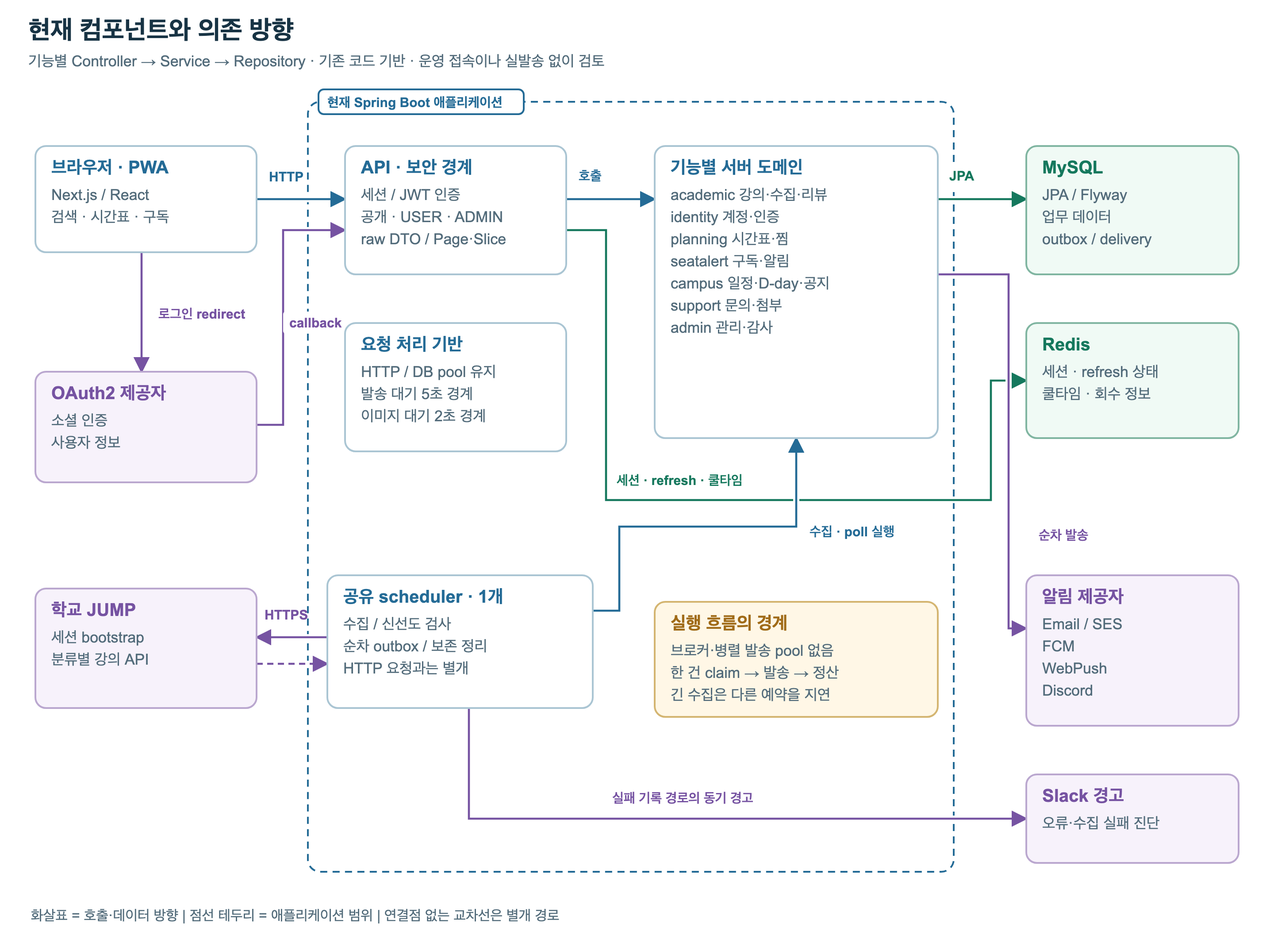
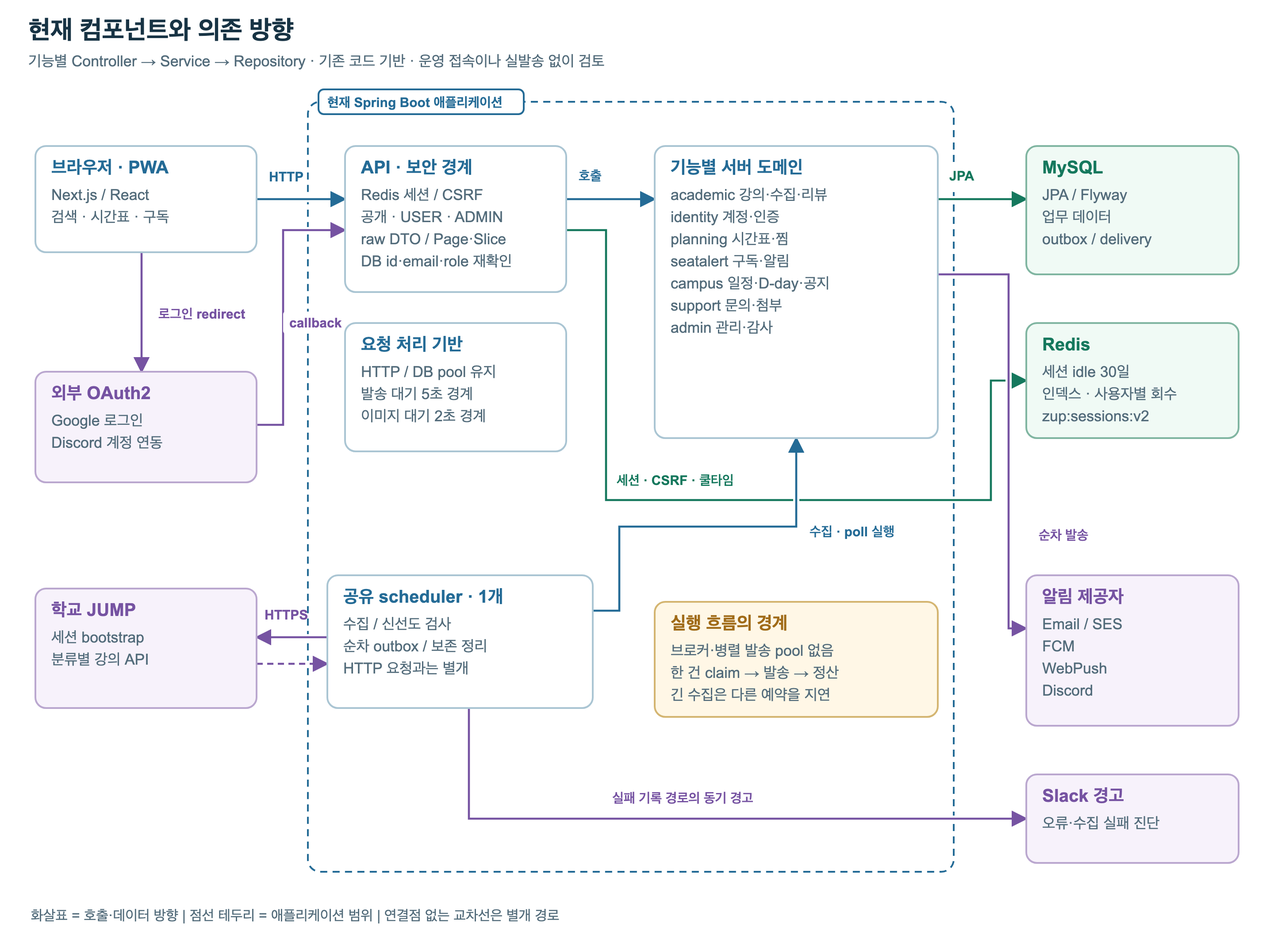
docs(auth): 현재 구조도에 Redis 세션 전환을 반영
로그인·CSRF·현재 계정 검사와 기기별 로그아웃·탈퇴 회수 흐름을 최종 코드 기준으로 표시한다.
30일 idle 정책과 일회 재로그인, SESSION 쿠키 설정 및 검증 결과를 기록한다.
외부 자원 없이 1440·390·320px와 탭·소스 링크를 확인했다.

diff --git a/docs/current-architecture.html b/docs/current-architecture.html
@@ -21,7 +21,7 @@
 <div class="eyebrow">ZUP ZUP · CURRENT CODE MAP</div>
 <h1>줍줍의 현재 구조</h1>
 <p class="lead">사용자 요청은 기존 서비스로, 여석 알림은 DB에 남긴 작업을 한 건씩 처리하는 흐름으로 이어집니다. 이 문서는 현재 단순화 브랜치의 실행 경로와 경계를 설명합니다.</p>
-<div class="meta"><span class="chip strong">codex/simplify-existing-20261026</span><span class="chip">코드 기준 <code id="code-revision">0bb2bf766</code></span><span class="chip">2026-10-26</span><span class="chip">독립 HTML · 외부 요청 없음</span></div>
+<div class="meta"><span class="chip strong">codex/simplify-existing-20261026</span><span class="chip">코드 기준 <code id="code-revision" title="a6ab4b5abf9d9a773c443389f9173d20b3f7d9ac">a6ab4b5ab</code></span><span class="chip">2026-10-26</span><span class="chip">독립 HTML · 외부 요청 없음</span></div>
 <div class="metrics" aria-label="설정 기본값 요약"><div class="metric"><b>1건씩</b><span>outbox 선점 → 발송 → 정산</span></div><div class="metric"><b>1개</b><span>공유 scheduler의 실행 스레드</span></div><div class="metric"><b>5초 / 2초</b><span>제공자 / 이미지 결과 대기 제한</span></div><div class="metric"><b>DB + token</b><span>unique 제약과 claim fencing</span></div></div>
 </header>
 <nav class="tabs" role="tablist" aria-label="구조도 보기">
@@ -76,7 +76,7 @@
 <path d="M 640 260 H 685 V 565 H 1120 V 430 H 1160" fill="none" stroke="#fff" stroke-width="7"/>
 <path d="M 640 260 H 685 V 565 H 1120 V 430 H 1160" fill="none" stroke="#15785d" stroke-width="2.3" marker-end="url(#component-diagram-arrow-15785d)"/>
 <rect x="690" y="530" width="193" height="25" rx="3" fill="#fff" stroke="none" stroke-width="2"/>
-<text x="697" y="548" font-size="15" fill="#15785d" font-weight="600" text-anchor="start">세션 · refresh · 쿨타임</text>
+<text x="697" y="548" font-size="15" fill="#15785d" font-weight="600" text-anchor="start">세션 · CSRF · 쿨타임</text>
 <path d="M 160 285 V 420" fill="none" stroke="#fff" stroke-width="7"/>
 <path d="M 160 285 V 420" fill="none" stroke="#7653a2" stroke-width="2.3" marker-end="url(#component-diagram-arrow-7653a2)"/>
 <rect x="172" y="342" width="131" height="25" rx="3" fill="#fff" stroke="none" stroke-width="2"/>
@@ -107,11 +107,12 @@
 <text x="58" y="196" font-size="20" fill="#246b96" font-weight="700" text-anchor="start">브라우저 · PWA</text>
 <text x="58" y="226" font-size="17" fill="#536c7b" font-weight="400" text-anchor="start">Next.js / React</text>
 <text x="58" y="251" font-size="17" fill="#536c7b" font-weight="400" text-anchor="start">검색 · 시간표 · 구독</text>
-<rect x="390" y="165" width="250" height="145" rx="12" fill="#fff" stroke="#aac5d3" stroke-width="2"/>
+<rect x="390" y="165" width="250" height="165" rx="12" fill="#fff" stroke="#aac5d3" stroke-width="2"/>
 <text x="408" y="196" font-size="20" fill="#246b96" font-weight="700" text-anchor="start">API · 보안 경계</text>
-<text x="408" y="226" font-size="17" fill="#536c7b" font-weight="400" text-anchor="start">세션 / JWT 인증</text>
+<text x="408" y="226" font-size="17" fill="#536c7b" font-weight="400" text-anchor="start">Redis 세션 / CSRF</text>
 <text x="408" y="251" font-size="17" fill="#536c7b" font-weight="400" text-anchor="start">공개 · USER · ADMIN</text>
 <text x="408" y="276" font-size="17" fill="#536c7b" font-weight="400" text-anchor="start">raw DTO / Page·Slice</text>
+<text x="408" y="301" font-size="17" fill="#536c7b" font-weight="400" text-anchor="start">DB id·email·role 재확인</text>
 <rect x="740" y="165" width="320" height="330" rx="12" fill="#fff" stroke="#aac5d3" stroke-width="2"/>
 <text x="758" y="196" font-size="20" fill="#246b96" font-weight="700" text-anchor="start">기능별 서버 도메인</text>
 <text x="758" y="226" font-size="17" fill="#536c7b" font-weight="400" text-anchor="start">academic  강의·수집·리뷰</text>
@@ -128,12 +129,13 @@
 <text x="1178" y="276" font-size="17" fill="#536c7b" font-weight="400" text-anchor="start">outbox / delivery</text>
 <rect x="1160" y="365" width="240" height="130" rx="12" fill="#f0faf5" stroke="#80b5a1" stroke-width="2"/>
 <text x="1178" y="396" font-size="20" fill="#15785d" font-weight="700" text-anchor="start">Redis</text>
-<text x="1178" y="426" font-size="17" fill="#536c7b" font-weight="400" text-anchor="start">세션 · refresh 상태</text>
-<text x="1178" y="451" font-size="17" fill="#536c7b" font-weight="400" text-anchor="start">쿨타임 · 회수 정보</text>
+<text x="1178" y="426" font-size="17" fill="#536c7b" font-weight="400" text-anchor="start">세션 idle 30일</text>
+<text x="1178" y="451" font-size="17" fill="#536c7b" font-weight="400" text-anchor="start">인덱스 · 사용자별 회수</text>
+<text x="1178" y="476" font-size="17" fill="#536c7b" font-weight="400" text-anchor="start">zup:sessions:v2</text>
 <rect x="40" y="420" width="250" height="125" rx="12" fill="#f7f2fb" stroke="#baa7cf" stroke-width="2"/>
-<text x="58" y="451" font-size="20" fill="#7653a2" font-weight="700" text-anchor="start">OAuth2 제공자</text>
-<text x="58" y="481" font-size="17" fill="#536c7b" font-weight="400" text-anchor="start">소셜 인증</text>
-<text x="58" y="506" font-size="17" fill="#536c7b" font-weight="400" text-anchor="start">사용자 정보</text>
+<text x="58" y="451" font-size="20" fill="#7653a2" font-weight="700" text-anchor="start">외부 OAuth2</text>
+<text x="58" y="481" font-size="17" fill="#536c7b" font-weight="400" text-anchor="start">Google 로그인</text>
+<text x="58" y="506" font-size="17" fill="#536c7b" font-weight="400" text-anchor="start">Discord 계정 연동</text>
 <rect x="390" y="365" width="250" height="145" rx="12" fill="#fff" stroke="#aac5d3" stroke-width="2"/>
 <text x="408" y="396" font-size="20" fill="#246b96" font-weight="700" text-anchor="start">요청 처리 기반</text>
 <text x="408" y="426" font-size="17" fill="#536c7b" font-weight="400" text-anchor="start">HTTP / DB pool 유지</text>
@@ -166,14 +168,14 @@
 </svg></div><p class="diagram-help">좁은 화면에서는 도식 안을 좌우로 스크롤하세요. 도식에 초점을 둔 뒤 ← / → 키도 사용할 수 있습니다.</p></figure><!-- /COMPONENT FIGURE -->
 <div class="legend"><span><i class="dot io-dot"></i>요청·처리</span><span><i class="dot tx-dot"></i>DB 트랜잭션</span><span><i class="dot external-dot"></i>외부 I/O</span><span><i class="dot risk-dot"></i>제약·위험</span></div>
 <div class="system" aria-label="웹에서 서버와 저장소 및 외부 시스템으로 이어지는 구조도">
-<div class="lane"><div class="lane-title">01 · 사용자와 웹</div><article class="card"><span class="tag">Next.js · React</span><h3>브라우저 / PWA</h3><p>검색·시간표·구독·대시보드·설정·관리자 화면</p><div class="pill-line"><span>TanStack Query</span><span>Axios</span><span>쿠키 인증</span><span>알림 service worker</span></div><p class="small">HTTP API 요청과 응답으로 서버 기능을 사용합니다. 이미지 등 첨부도 인증된 API로 요청합니다.</p><div class="ref"><a data-src="web:shared/api/client.ts">HTTP·401 재발급</a><a data-src="web:app/providers.tsx">웹 providers</a></div></article><article class="card"><span class="tag external">OAuth2</span><h3>소셜 로그인 제공자</h3><p>제공자 인증 → 서버 callback → 서비스 계정 조회/생성</p><div class="ref"><a data-src="main:identity/auth/client/CustomOAuth2UserService.java">OAuth 사용자 처리</a></div></article></div>
+<div class="lane"><div class="lane-title">01 · 사용자와 웹</div><article class="card"><span class="tag">Next.js · React</span><h3>브라우저 / PWA</h3><p>검색·시간표·구독·대시보드·설정·관리자 화면</p><div class="pill-line"><span>TanStack Query</span><span>Axios</span><span>SESSION 쿠키</span><span>알림 service worker</span></div><p class="small">HTTP API 요청과 응답으로 서버 기능을 사용합니다. 이미지 등 첨부도 인증된 API로 요청합니다.</p><div class="ref"><a data-src="web:shared/api/client.ts">HTTP·CSRF 처리</a><a data-src="web:app/providers.tsx">웹 providers</a></div></article><article class="card"><span class="tag external">OAuth2</span><h3>Google 로그인 · Discord 연동</h3><p>Google 인증 → 서버 callback → 서비스 계정 조회/생성. Discord 외부 OAuth 계정 연동도 유지합니다.</p><div class="ref"><a data-src="main:identity/auth/client/CustomOAuth2UserService.java">OAuth 사용자 처리</a></div></article></div>
 <div class="arrow" aria-hidden="true">⇄</div>
-<div class="lane server"><div class="server-head">02 · Spring Boot 3.5.9 / Java 21</div><article class="card"><span class="tag">보안 경계</span><h3>Spring Security · 인증 필터</h3><p>공개 API / 인증 사용자 / ADMIN 경로를 구분합니다. 세션 인증과 Bearer JWT를 검증하고 서비스에서 소유권을 검사합니다.</p><div class="ref"><a data-src="main:common/config/SecurityConfig.java">권한 설정</a><a data-src="main:common/security/jwt/JwtAuthenticationFilter.java">인증 필터</a></div></article><article class="card"><span class="tag tx">업무 처리</span><h3>기능별 Controller → Service → Repository</h3><div class="pill-line"><span>academic</span><span>identity</span><span>planning</span><span>seatalert</span><span>campus</span><span>support</span><span>admin</span></div><p class="small">DTO는 request(입력)·response(API 출력)·result(내부 결과)와 command·criteria·external·provider·diagnostic으로 역할을 구분합니다. 타입을 복제하는 변환 계층은 추가하지 않았습니다.</p></article><article class="card"><span class="tag">예약 작업</span><h3>공유 scheduler 1개</h3><p>수집·신선도 검사·outbox poll·보존 기간 정리 작업이 순차 실행됩니다. outbox는 별도 발송 pool 없이 한 건씩 처리합니다.</p><div class="ref"><a data-src="main:common/config/SchedulingConfig.java">scheduler 설정</a><a data-src="main:seatalert/notification/scheduler/SeatNotificationOutboxWorker.java">순차 worker</a></div></article></div>
+<div class="lane server"><div class="server-head">02 · Spring Boot 3.5.9 / Java 21</div><article class="card"><span class="tag">보안 경계</span><h3>Spring Security · 인증 필터</h3><p>공개 API / 인증 사용자 / ADMIN 경로를 구분합니다. Redis 세션 인증 후 DB에서 현재 id·email·미탈퇴·role을 재확인합니다. 변경 요청에는 CSRF 검증을 적용하며 서비스의 소유권 검사도 유지합니다.</p><div class="ref"><a data-src="main:common/config/SecurityConfig.java">권한 설정</a><a data-src="main:common/security/session/SessionAuthenticationFilter.java">인증 필터</a></div></article><article class="card"><span class="tag tx">업무 처리</span><h3>기능별 Controller → Service → Repository</h3><div class="pill-line"><span>academic</span><span>identity</span><span>planning</span><span>seatalert</span><span>campus</span><span>support</span><span>admin</span></div><p class="small">DTO는 request(입력)·response(API 출력)·result(내부 결과)와 command·criteria·external·provider·diagnostic으로 역할을 구분합니다. 타입을 복제하는 변환 계층은 추가하지 않았습니다.</p></article><article class="card"><span class="tag">예약 작업</span><h3>공유 scheduler 1개</h3><p>수집·신선도 검사·outbox poll·보존 기간 정리 작업이 순차 실행됩니다. outbox는 별도 발송 pool 없이 한 건씩 처리합니다.</p><div class="ref"><a data-src="main:common/config/SchedulingConfig.java">scheduler 설정</a><a data-src="main:seatalert/notification/scheduler/SeatNotificationOutboxWorker.java">순차 worker</a></div></article></div>
 <div class="arrow" aria-hidden="true">⇄</div>
-<div class="lane"><div class="lane-title">03 · 저장소와 외부 I/O</div><article class="card"><span class="tag tx">MySQL · JPA · Flyway</span><h3>업무 데이터 + durable outbox</h3><p>강의·좌석 이력·시간표·구독·사용자·알림 delivery/이력·공지·문의·감사 기록</p><div class="ref"><a data-src="config:application-prod.yml">운영 기본 설정</a><a data-src="main:seatalert/notification/entity/SeatNotificationDelivery.java">delivery 모델</a></div></article><article class="card"><span class="tag tx">Redis</span><h3>세션·재발급·쿨타임</h3><p>Spring Session, refresh token family/digest와 회수 정보, 테스트 발송 등 제한 상태</p><p class="small">실제 outbox의 주된 중복 방지는 Redis TTL이 아닌 DB unique·claim token입니다.</p><div class="ref"><a data-src="main:common/security/jwt/JwtProvider.java">refresh 관리</a><a data-src="main:common/redis/RedisService.java">Redis 연산</a></div></article><article class="card"><span class="tag external">외부 I/O</span><h3>학교 JUMP · 알림 제공자</h3><p>JUMP 수집 / 이메일 / FCM / WebPush / Discord / 운영 Slack 경고</p><p class="small">첨부 이미지는 로컬 파일 저장소에서 검증·재인코딩합니다.</p><div class="ref"><a data-src="main:academic/crawling/client/JbnuCourseApiClient.java">학교 클라이언트</a><a data-src="main:common/util/LocalFileUploadService.java">파일 저장</a></div></article></div>
+<div class="lane"><div class="lane-title">03 · 저장소와 외부 I/O</div><article class="card"><span class="tag tx">MySQL · JPA · Flyway</span><h3>업무 데이터 + durable outbox</h3><p>강의·좌석 이력·시간표·구독·사용자·알림 delivery/이력·공지·문의·감사 기록</p><div class="ref"><a data-src="config:application-prod.yml">운영 기본 설정</a><a data-src="main:seatalert/notification/entity/SeatNotificationDelivery.java">delivery 모델</a></div></article><article class="card"><span class="tag tx">Redis</span><h3>인덱스 세션 · CSRF · 쿨타임</h3><p>RedisIndexedSession의 SecurityContext·SessionPrincipal·CSRF 상태와 테스트 발송 제한을 보관합니다. 인증된 요청의 idle 만료와 SESSION 쿠키 수명은 활동 시 30일로 갱신됩니다.</p><p class="small">실제 outbox의 주된 중복 방지는 Redis TTL이 아닌 DB unique·claim token입니다.</p><div class="ref"><a data-src="main:common/config/RedisConfig.java">세션 인덱스·namespace</a><a data-src="main:common/config/SecurityContextRepositoryConfig.java">SESSION·CSRF 설정</a><a data-src="main:common/redis/RedisService.java">Redis 연산</a></div></article><article class="card"><span class="tag external">외부 I/O</span><h3>학교 JUMP · 알림 제공자</h3><p>JUMP 수집 / 이메일 / FCM / WebPush / Discord / 운영 Slack 경고</p><p class="small">첨부 이미지는 로컬 파일 저장소에서 검증·재인코딩합니다.</p><div class="ref"><a data-src="main:academic/crawling/client/JbnuCourseApiClient.java">학교 클라이언트</a><a data-src="main:common/util/LocalFileUploadService.java">파일 저장</a></div></article></div>
 </div>
 <div class="note">순차화 범위는 애플리케이션 예약·발송 흐름입니다. HTTP 요청 처리, DB connection pool, SDK I/O 기반을 전역 단일 실행으로 바꾸지 않았습니다. 5초 발송 대기와 2초 이미지 대기를 위한 실행 경계는 남아 있습니다.</div>
-<div class="grid-2 subsection" id="api-contract-update"><article class="card"><span class="tag">정상 응답 직접 반환</span><h3>실제 DTO · 목록 · Page/Slice</h3><p>성공용 code/message/data 공통 래퍼는 제거했습니다. API 함수는 Axios 응답의 data 한 단계에서 실제 payload를 꺼내며, 화면에서 성공 래퍼를 다시 해제하지 않습니다. HTTP 상태·쿠키·파일 헤더·기존 빈 본문과 공통 오류 응답은 각각의 계약을 유지합니다.</p><div class="ref"><a href="api-response-contract.md">정상 응답 계약</a><a data-src="web:shared/api/client.ts">공통 오류·재발급 처리</a></div></article><article class="card"><span class="tag tx">DTO 역할 · 페이지 경계</span><h3>타입 역할 구분 · 페이지형 API 30건</h3><p>request·response·result를 구분하고 서비스 입력·조회 조건·외부 수집 모델의 별도 역할도 유지합니다. 페이지형 API의 크기는 PageableGuard가 30으로 고정하며 기존 정렬·offset 제한을 적용합니다.</p><div class="ref"><a href="dto-classification.md">DTO 역할 분류</a><a data-src="main:common/web/PageableGuard.java">고정 크기·범위 제한</a><a data-src="test:common/web/FixedPageSizeContractTest.java">크기 고정 계약 테스트</a></div></article></div>
+<div class="grid-2 subsection" id="api-contract-update"><article class="card"><span class="tag">정상 응답 직접 반환</span><h3>실제 DTO · 목록 · Page/Slice</h3><p>성공용 code/message/data 공통 래퍼는 제거했습니다. API 함수는 Axios 응답의 data 한 단계에서 실제 payload를 꺼내며, 화면에서 성공 래퍼를 다시 해제하지 않습니다. HTTP 상태·쿠키·파일 헤더·빈 본문·공통 오류 응답은 기능별 계약으로 구분합니다.</p><div class="ref"><a href="api-response-contract.md">정상 응답 계약</a><a data-src="web:shared/api/client.ts">공통 오류·CSRF 처리</a></div></article><article class="card"><span class="tag tx">DTO 역할 · 페이지 경계</span><h3>타입 역할 구분 · 페이지형 API 30건</h3><p>request·response·result를 구분하고 서비스 입력·조회 조건·외부 수집 모델의 별도 역할도 유지합니다. 페이지형 API의 크기는 PageableGuard가 30으로 고정하며 기존 정렬·offset 제한을 적용합니다.</p><div class="ref"><a href="dto-classification.md">DTO 역할 분류</a><a data-src="main:common/web/PageableGuard.java">고정 크기·범위 제한</a><a data-src="test:common/web/FixedPageSizeContractTest.java">크기 고정 계약 테스트</a></div></article></div>
 <div class="subsection"><h3>다른 기능도 같은 애플리케이션 안에 있습니다</h3><div class="grid-3"><article class="card"><h3>학사와 개인 계획</h3><p>강의 검색·좌석 이력·리뷰/이모지, 시간표·사용자 일정·찜</p><div class="ref"><a data-src="main:academic/course/controller/CourseController.java">강의 API</a><a data-src="main:planning/timetable/controller/TimetableController.java">시간표 API</a></div></article><article class="card"><h3>캠퍼스·지원·관리</h3><p>공지·Schedule 기반 학사 일정과 D-day 선택, 문의·첨부·답변, 관리자 감사 로그와 알림 DLQ 재처리</p><div class="ref"><a data-src="main:support/feedback/controller/FeedbackController.java">문의 API</a><a data-src="main:seatalert/notification/service/AdminNotificationDeliveryService.java">DLQ 재처리</a></div></article><article class="card"><h3>공통 기반</h3><p>정상 응답은 실제 payload 직접 반환. 공통 오류·인증/권한·입력 검증·MDC/민감정보 가림·지표/health 유지</p><div class="ref"><a data-src="main:common/web/GlobalExceptionHandler.java">오류 처리</a><a data-src="main:dashboard/controller/DashboardController.java">대시보드 집계</a></div></article></div></div>
 </section>
 <section id="delivery" class="panel" role="tabpanel" aria-labelledby="tab-delivery">
@@ -332,7 +334,7 @@
 </section>
 <section id="requests" class="panel" role="tabpanel" aria-labelledby="tab-requests">
 <div class="section-title"><div><h2>사용자 요청의 경로</h2><p>HTTP 요청은 예약 scheduler와 별개의 서버 요청 기반에서 처리합니다. 서비스의 입력·소유권·권한 검사와 트랜잭션을 유지합니다.</p></div></div>
-<details open><summary>로그인 · 세션 · 재발급</summary><div class="mini-flow"><div><b>1 · 제공자 인증</b><span>웹 → OAuth2 제공자 → Spring callback</span></div><div><b>2 · 계정 처리</b><span>CustomOAuth2UserService → 기존 계정 조회/생성</span></div><div><b>3 · 인증 보관</b><span>refresh cookie + 세션 SecurityContext. Redis에는 refresh family/digest 등 관리 상태</span></div><div><b>4 · 후속 요청</b><span>세션/Bearer JWT 검증 → 권한 검사. 401이면 웹의 단일 refresh 진행 → 원 요청 재시도</span></div></div><p>JWT 원문을 세션에 보관하는 구조가 아닙니다. 로그아웃·탈퇴와 refresh rotation의 회수·재사용 방어는 기존 코드가 담당합니다.</p><div class="ref"><a data-src="main:identity/auth/handler/OAuth2SuccessHandler.java">로그인 성공</a><a data-src="main:identity/auth/service/AuthService.java">인증·재발급</a><a data-src="main:common/security/jwt/JwtProvider.java">rotation·회수</a><a data-src="web:shared/api/client.ts">웹 refresh 합류</a></div></details>
+<details open id="session-auth-flow"><summary>로그인 · Redis 세션 · CSRF</summary><div class="mini-flow"><div><b>1 · 외부 OAuth 유지</b><span>Google 로그인 → Spring callback → 계정 확인. Discord 계정 연동 OAuth도 유지</span></div><div><b>2 · 세션 인증 보관</b><span>AuthService가 기존 세션 ID를 교체하고 SessionPrincipal(userId, email)의 SecurityContext를 Redis 인덱스 세션에 저장</span></div><div><b>3 · 요청마다 현재 계정 검사</b><span>SESSION 쿠키 → Redis 세션 → DB의 id·email·미탈퇴·현재 role 확인. 인증 요청의 idle/쿠키 수명은 30일로 rolling 갱신</span></div><div><b>4 · 변경 요청은 CSRF</b><span>GET /api/auth/csrf → {token}. 웹은 X-CSRF-TOKEN 헤더를 전송하고 서버가 세션의 token과 검증</span></div></div><p>앱의 JWT·refresh 발급과 Bearer 인증·자동 재발급 경로는 제거했습니다. 401이면 로그인 필요 상태로 처리합니다. CSRF는 POST·PUT·PATCH·DELETE 등 변경 요청에 적용하며, 읽기 전용 POST /api/v1/courses/search만 예외입니다. GET·HEAD·OPTIONS는 기본 안전 메서드입니다.</p><p>로그아웃은 현재 기기 세션만 무효화합니다. 탈퇴는 email principal 인덱스에서 찾은 세션 중 userId까지 같은 계정의 세션 전체를 회수합니다. DB의 현재 id·email·탈퇴 여부가 맞지 않으면 세션을 무효화하고, role은 매 요청 현재 DB 값으로 갱신합니다.</p><div class="note warning">새 namespace는 <code>zup:sessions:v2</code>입니다. 이 세션 전환을 배포하면 기존 인증 세션은 이어받지 않아 한 번 다시 로그인해야 합니다. idle 30일은 로그인 후 절대 30일 만료가 아니라 활동 시 갱신되는 수명입니다. 세션 전환은 격리 Redis·HTTP와 브라우저 검증을 통과했습니다. 운영 배포를 수행한 기록은 아닙니다.</div><p>쿠키 Secure 표준은 운영에서 <code>SERVER_SERVLET_SESSION_COOKIE_SECURE=true</code>입니다. prod 프로필의 <code>cookie.secure: true</code>와 기본 Compose의 환경변수가 일치하며, 로컬 HTTP 개발용 Compose override만 <code>false</code>로 덮어씁니다. 로컬 override의 값을 운영 기준으로 사용하지 않습니다.</p><div class="ref"><a data-src="config:application-prod.yml">prod 쿠키 설정</a><a href="../infra/docker-compose.yml">Compose 운영 표준</a><a href="../infra/docker-compose.override.yml">로컬 HTTP override</a></div><div class="ref"><a data-src="main:identity/auth/handler/OAuth2SuccessHandler.java">OAuth 로그인 성공</a><a data-src="main:identity/auth/service/AuthService.java">세션 로그인·현재 기기 로그아웃</a><a data-src="main:identity/auth/service/SessionPrincipal.java">세션 principal</a><a data-src="main:identity/auth/service/SessionInvalidator.java">동일 userId 전체 세션 회수</a><a data-src="main:common/security/session/SessionAuthenticationFilter.java">현재 계정·role 재검증</a><a data-src="main:identity/auth/controller/AuthController.java">CSRF token API</a><a data-src="main:identity/user/service/DiscordOAuthService.java">Discord OAuth 연동</a><a data-src="web:shared/api/client.ts">웹 CSRF·세션 변경 처리</a></div></details>
 <details><summary>강의 검색 · 상세 · 좌석 이력</summary><div class="mini-flow"><div><b>1 · 필터와 페이지</b><span>웹 검색 상태 → POST /api/v1/courses/search</span></div><div><b>2 · 입력 검증</b><span>Controller → 페이지 크기 30 고정 → CourseService 검색 조건 검증</span></div><div><b>3 · DB 읽기</b><span>CourseSearchReadRepository 등에서 조건·정렬·공강·찜 의미를 반영</span></div><div><b>4 · 응답과 캐시</b><span>raw DTO · Page/Slice → 웹 조회 캐시와 화면</span></div></div><p>공개 검색·상세·이력과 개인화 권한은 기존 보안 설정을 따릅니다. 페이지형 API는 클라이언트 size와 관계없이 30건으로 정규화하고 page·sort는 유지합니다. 일정처럼 비페이지 목록인 API를 30건으로 자르는 변경은 아닙니다.</p><div class="ref"><a data-src="main:academic/course/controller/CourseController.java">검색·상세 API</a><a data-src="main:academic/course/service/CourseService.java">검색 서비스</a><a data-src="test:academic/course/repository/CourseSearchReadRepositoryTest.java">검색 DB 계약</a></div></details>
 <details><summary>시간표 · 강의 추가 · 사용자 일정</summary><div class="mini-flow"><div><b>1 · 인증 요청</b><span>/api/v1/timetables와 하위 강의/일정 API</span></div><div><b>2 · 사용자 검증</b><span>현재 사용자·시간표 소유권·기존 제한·중복 검증</span></div><div><b>3 · 쓰기 TX</b><span>시간표·수록 강의·커스텀 일정 저장. 대표 시간표 승계 유지</span></div><div><b>4 · 조회 표현</b><span>대표 snapshot·응답 DTO → 시간표/대시보드 렌더링</span></div></div><p>외부 공유 Schedule·snapshot 타입은 별도 파일입니다. JSON 필드·생성자·cascade validation을 바꾸기 위한 타입 이동이 아닙니다.</p><div class="ref"><a data-src="main:planning/timetable/service/TimetableService.java">시간표 서비스</a><a data-src="main:planning/timetable/service/TimetableService.java">대표 조회</a><a data-src="test:planning/timetable/service/CustomScheduleRequestValidationTest.java">cascade 검증</a></div></details>
 <details><summary>구독 · 취소 · 알림 대상 결정</summary><div class="mini-flow"><div><b>1 · 구독 요청</b><span>POST /api/v1/subscriptions</span></div><div><b>2 · 업무 검증</b><span>현재 추적 학기·강의 존재·중복·활성 한도 확인</span></div><div><b>3 · 구독 DB</b><span>subscribe 저장 / 본인 개별·전체 삭제 / 탈퇴 비활성화</span></div><div><b>4 · 여석 발생 후</b><span>materialize 시 활성 수신자를 조회 → 채널별 delivery 생성</span></div></div><p>취소는 이후 활성 구독자 조회에 반영됩니다. 이미 materialize된 delivery에 취소를 소급 적용하는 기능은 추가하지 않았습니다. 발송 직전 사용자 탈퇴·채널 설정·단말은 다시 확인합니다.</p><div class="ref"><a data-src="main:seatalert/subscription/service/SubscriptionService.java">구독·본인 취소</a><a data-src="main:seatalert/subscription/service/SubscriptionQueryService.java">수신자 조회</a><a data-src="test:seatalert/subscription/service/SubscriptionQueryServiceTest.java">활성·취소 제외 검증</a></div></details>
@@ -690,8 +692,10 @@
 </svg></div><p class="diagram-help">좁은 화면에서는 도식 안을 좌우로 스크롤하세요. 도식에 초점을 둔 뒤 ← / → 키도 사용할 수 있습니다.</p></figure><div class="ref"><a data-src="main:academic/crawling/service/CrawlerRunStateService.java">실패 기록·Slack 경계</a><a data-src="main:seatalert/notification/service/SeatNotificationOutboxProcessor.java">materialize·claim·dispatch</a><a data-src="main:seatalert/notification/service/NotificationService.java">수신 조건·만료 격리</a><a data-src="main:seatalert/notification/service/SeatNotificationDeliverySettlementService.java">stale 정산·상태 전이</a></div></section>
 <section id="boundaries" class="panel" role="tabpanel" aria-labelledby="tab-boundaries">
 <div class="section-title"><div><h2>트랜잭션 · 중복 방지 · 시간 제한</h2><p>설정 기본값, 코드상 보장, 실제로 확인한 검증 범위를 구분합니다. 아래의 한계는 새로운 보장으로 덮지 않았습니다.</p></div></div>
-<div class="note" style="margin-bottom:18px"><strong>이전 알림 수정 기준 검증 (16234ac48):</strong> clean check bootJar · 118개 클래스 / 523건 통과 · 실패·오류·skip 0 · PMD·Checkstyle 위반 0. 현재 정상 응답·일정/D-day·고정 페이지·인터페이스·주석 정리 기준은 서버 123개 클래스/572건, MySQL 마이그레이션 2건, 웹 295건, 브라우저 5건 통과이며 PMD·Checkstyle·타입·lint·양쪽 빌드도 통과했습니다. 아래 HTTP·scheduler 수치는 이전 로컬 검증 예이며 운영 수신 보장이 아닙니다.</div>
+<div class="note" style="margin-bottom:18px"><strong>최종 코드 검증 (a6ab4b5ab):</strong> 서버 543건 + 실제 격리 Redis 6 HTTP 7건 통과, 실패·오류·skip 0. PMD·Checkstyle 위반 0, 실행 JAR 생성 성공. 웹 300건·TypeScript·lint·production build 통과. Playwright 7건은 재시도 0으로 10.0초에 통과했습니다. k6 helper 검사 3건과 Compose local/runtime 정적 계약도 통과했습니다. Redis·HTTP 검증은 격리 환경이며 실제 외부 OAuth 교환·운영 배포 검증이 아닙니다. 아래 HTTP·scheduler 실측은 기존 로컬 검증 예로 구분해 유지합니다.</div>
 <div class="table-wrap"><table><thead><tr><th>경계</th><th>현재 동작</th><th>실제 코드 근거</th></tr></thead><tbody>
+<tr><td>Redis 세션 인증</td><td data-label="동작">RedisIndexedSession · namespace <code>zup:sessions:v2</code> · SESSION 쿠키와 idle 30일 rolling. DB의 현재 id·email·미탈퇴·role을 매 인증 요청에서 확인. 새 namespace 전환 시 1회 재로그인.</td><td data-label="근거"><a data-src="main:common/config/RedisConfig.java">Redis 세션 설정</a> · <a data-src="main:common/security/session/SessionAuthenticationFilter.java">계정 검증</a></td></tr>
+<tr><td>CSRF · 세션 회수</td><td data-label="동작">GET /api/auth/csrf의 <code>{token}</code>과 변경 요청의 <code>X-CSRF-TOKEN</code>. 읽기 POST 검색만 예외. 로그아웃은 현재 기기, 탈퇴는 동일 userId의 세션 전체 회수.</td><td data-label="근거"><a data-src="main:common/config/SecurityConfig.java">CSRF·권한 경계</a> · <a data-src="main:identity/auth/service/SessionInvalidator.java">세션 회수</a> · <a data-src="test:common/security/session/RedisSessionEndToEndTest.java">격리 Redis 검증 코드</a></td></tr>
 <tr><td>수집 반영 TX</td><td data-label="동작">fetch·parse는 밖에서 완료. complete → synchronize → enqueue(MANDATORY) + 성공 상태는 같은 TX. 중간 chunk 실패도 전체 롤백.</td><td data-label="근거"><a data-src="test:academic/crawling/service/CourseCrawlCompletionTransactionTest.java">전체 원자성 검증</a></td></tr>
 <tr><td>delivery unique</td><td data-label="동작"><code>(outbox_id, user_id, channel)</code>와 idempotency_key 고유 제약. 두 키의 목적은 생성/식별 중복 억제.</td><td data-label="근거"><a data-src="main:seatalert/notification/entity/SeatNotificationDelivery.java">엔티티</a> · <a data-src="migration:V16__create_seat_notification_deliveries.sql">V16</a> · <a data-src="migration:V19__add_notification_delivery_idempotency_and_dlq_operations.sql">V19</a></td></tr>
 <tr><td>claim·정산 TX</td><td data-label="동작">쓰기 락으로 선점·정산, 새 claim token. 만료 PROCESSING 복구와 stale 정산 차단. 외부 호출을 TX에 넣지 않음.</td><td data-label="근거"><a data-src="test:seatalert/notification/client/SeatNotificationDeliveryClaimTest.java">claim 검증</a> · <a data-src="test:seatalert/notification/service/SeatNotificationDeliverySettlementServiceTest.java">정산 검증</a></td></tr>

diff --git a/docs/redis-session-migration.md b/docs/redis-session-migration.md
@@ -83,6 +83,8 @@ k6는 SESSION_COOKIE와 CSRF_TOKEN 환경변수 또는 gitignored `apps/server/s
 - 웹 79파일·300건 통과, TypeScript·ESLint 통과, production build 통과. Playwright 7건은 재시도 없이 10.0초에 통과했다. 시간표 mutation fixture에 빠진 `/api/auth/csrf`를 추가하고 요청 헤더를 함께 검증했다. 브라우저 테스트는 가짜 API를 쓰므로 실제 서버/Redis E2E와 구분한다.
 - k6 helper의 세션·CSRF·역할별 pool·환경변수/명시값·anonymous 계약 3건 통과. 실제 부하 요청은 보내지 않았다.
 - 예제 파일만 사용하는 local/runtime Compose config 계약 검사 통과. 검사 스크립트의 `python` 이름이 없는 환경이어서 실행 쉘에만 python3 함수를 제공했다. 시스템이나 저장소의 Python 설정은 바꾸지 않았다. 이 검사는 Compose를 기동하거나 운영에 적용하지 않는다.
-- Markdown 검사에서는 기존 HEAD와 현재가 모두 오래된 링크 159개로 같았고 이번 변경으로 새로 깨진 링크는 0개였다. append-only 과거 결정 문서를 이번 범위에서 재작성하지 않았다. HTML/컴포넌트 그림도 세션 기준으로 갱신하고 1440/390/320px·5탭·98개 소스 링크를 확인했다. 알림 그림 3개는 유지했다.
+- Markdown 검사에서는 기존 HEAD와 현재가 모두 오래된 링크 159개로 같았고 이번 변경으로 새로 깨진 링크는 0개였다. append-only 과거 결정 문서를 이번 범위에서 재작성하지 않았다. HTML/컴포넌트 그림도 세션 기준으로 갱신하고 1440/390/320px·5탭·101개 소스 링크를 확인했다. 알림 그림 3개는 유지했다.
 
 로그는 작업 디렉터리의 `session-server-final-fixed.log`, `session-server-redis6-final.log`, `session-web-full-final.log`, `session-web-types-final-root.log`, `session-web-lint-final-root.log`, `session-web-build.log`, `session-web-e2e.log`, `session-k6-contract.log`, `session-compose-local-final.log`, `session-compose-runtime-final.log`에 있다. 자격 증명 값은 출력하지 않았고 원본 dev 작업 폴더를 수정하지 않았다. 실제 OAuth 교환·운영 DB/Redis·TLS 프록시 쿠키와 저장소 밖 JWT 소비자는 여전히 미검증이다.
+
+코드 전환 커밋은 `a6ab4b5abf9d9a773c443389f9173d20b3f7d9ac`다. HTML의 코드 기준도 이 커밋이며 구조 그림과 검증 메타데이터는 별도 문서 커밋으로 보존한다.
